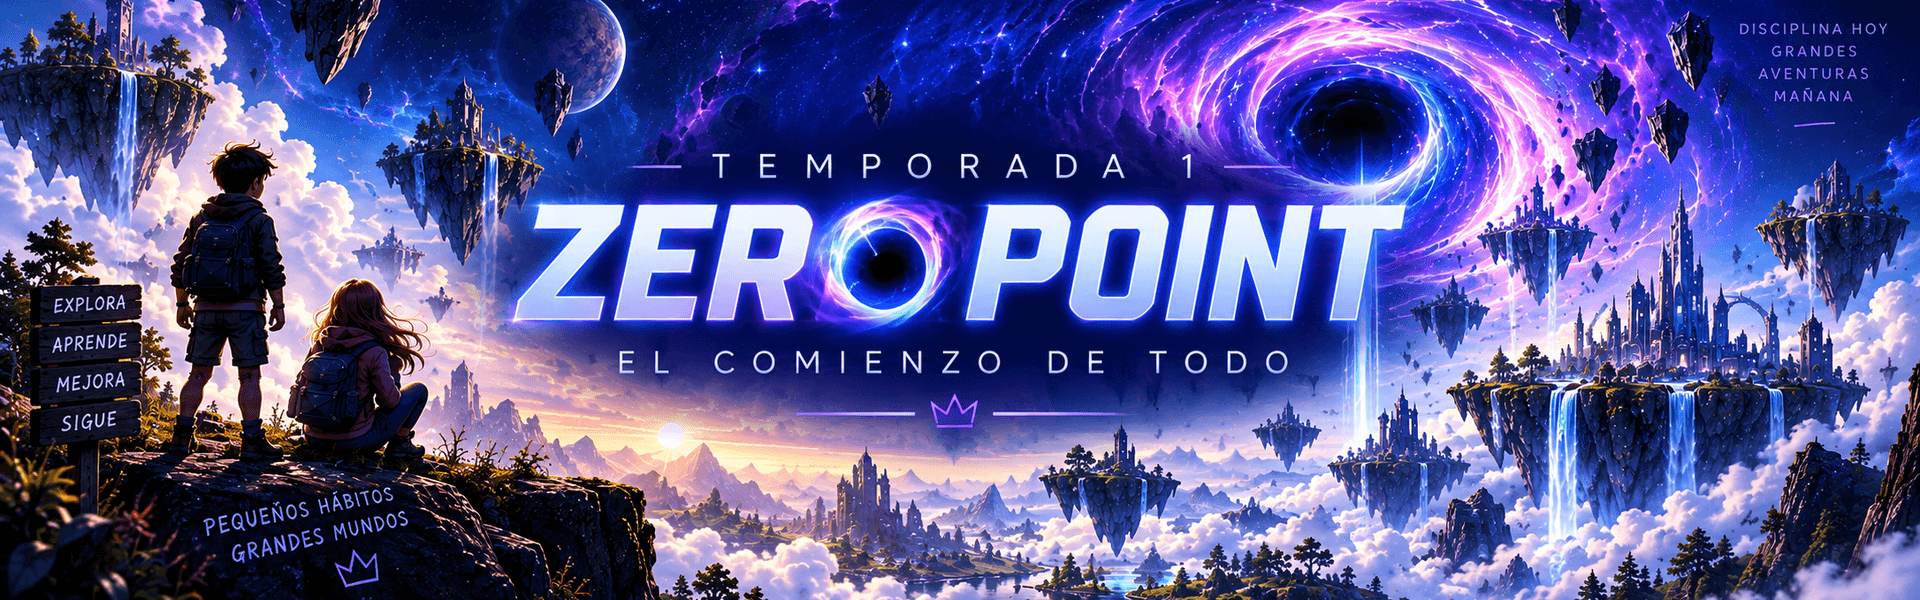
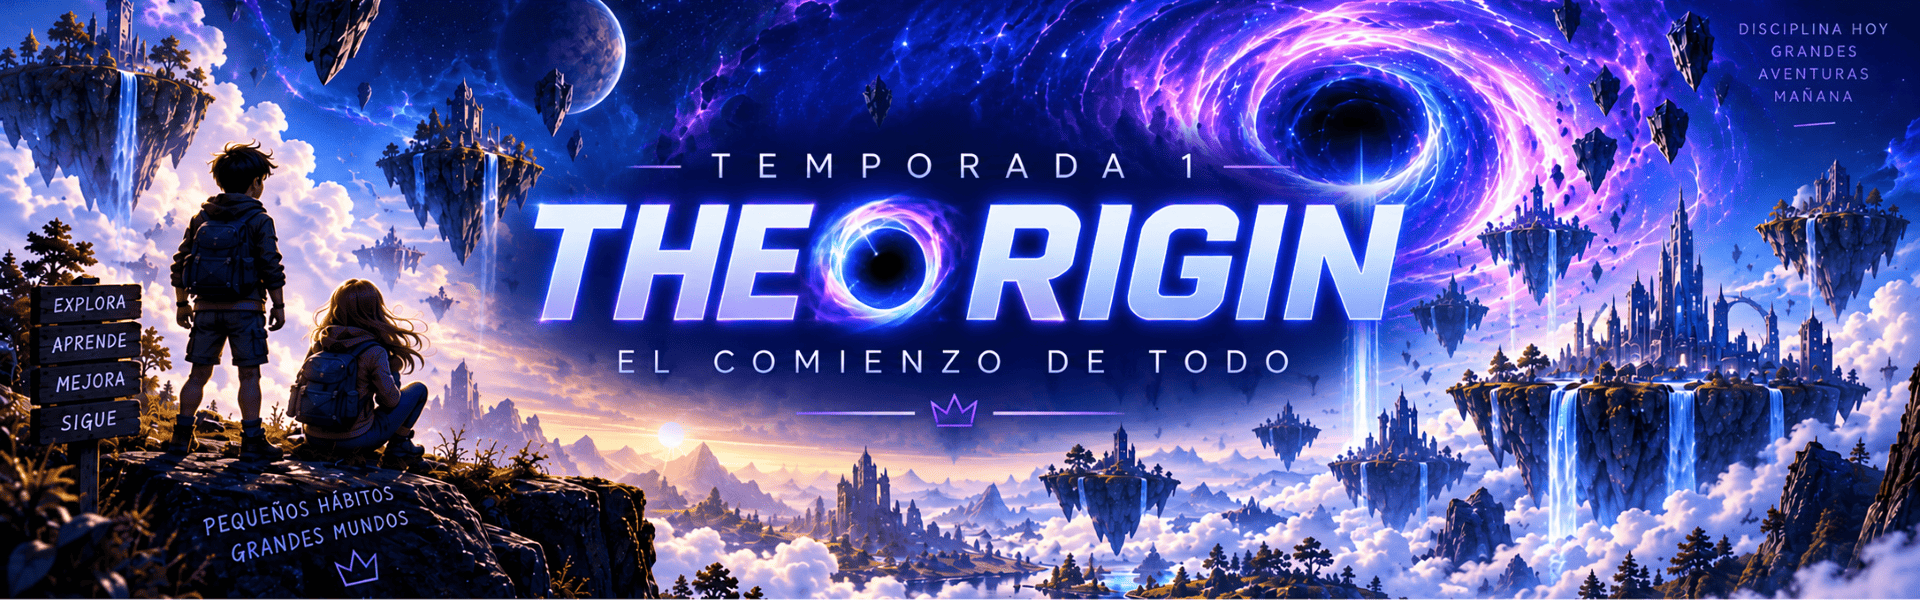
feat(seasons): añadir gráficos y presentar THE ORIGIN como temporada 1
feat(seasons): añadir gráficos y presentar THE ORIGIN como temporada 1

Incorporar recursos gráficos organizados por temporada.

Renombrar la temporada 1 de ZERO POINT a THE ORIGIN en temas, paneles y documentación.

Regenerar las plantillas de aprovisionamiento con los textos actualizados.

Renovar el README con presentación, instalación, uso diario y personalización.

Mantener el número y la carpeta de la temporada 1, las reglas y los identificadores de jugadores.

diff --git a/README.md b/README.md
@@ -1,42 +1,206 @@
-# Level Up Family
+# 🎮 Level Up Family
 
-Juego familiar de misiones domésticas para Home Assistant. Cada jugador completa misiones, gana XP, sube de nivel y sigue su progreso en temporadas de 28 días.
+**Las rutinas de casa se convierten en misiones. El progreso, en una aventura compartida.**
 
-Esta versión reúne el motor SQLite, los paquetes de Home Assistant, los paneles del juego y los recursos gráficos de la temporada 1. Incluye dos jugadores como ejemplo y un generador para configurar uno, dos o más hijos con nombres propios e identificadores estables `player1`, `player2`, `player3`…
+Level Up Family es un juego de tareas domésticas para **Home Assistant**. Cada hijo tiene su panel, completa misiones, gana experiencia y sigue su evolución durante temporadas de **28 días**. Los padres acompañan el progreso, organizan las tareas y eligen una recompensa semanal para cada jugador.
 
-## Qué incluye
+Puedes empezar con un hijo o con varios. Los nombres, las tareas y los premios se adaptan a tu familia.
 
-- Panel de `player1` y panel de `player2`, cada uno con una única pestaña del juego.
-- Configuración familiar central para añadir, renombrar o retirar hijos sin borrar su histórico.
-- Panel de padres con Control, Histórico, Tareas y premios y Familia.
-- Pestaña de padres **Tareas y premios** para editar las 20 tareas actuales: nombre, XP, jugador y calendario.
-- Un premio semanal distinto para cada jugador, visible en su propio panel con el estilo de temporada.
-- Misiones, XP, bonus, rachas, niveles, penalizaciones y cierres diarios/semanales.
-- Temporada de 28 días, con fecha de inicio configurable y estados pendiente, activa y finalizada.
-- Histórico en SQLite y utilidad de limpieza con copia de seguridad.
-- Pruebas aisladas y validaciones de YAML, plantillas y referencias.
+![Banner de la temporada 1 de Level Up Family](config/www/level_up_family/season_01/banner.png)
+
+## Explora el proyecto
+
+- [Qué puedes hacer](#-qué-puedes-hacer)
+- [Cómo funciona una semana](#-cómo-funciona-una-semana)
+- [Instalación](#-instalación)
+- [Configurar tu familia](#-configurar-tu-familia)
+- [Temporadas y gráficos](#-temporadas-y-gráficos)
+- [Datos y actualizaciones](#-datos-y-actualizaciones)
+- [Desarrollo y contribuciones](#-desarrollo-y-contribuciones)
+- [Guías y preguntas frecuentes](#-guías-y-preguntas-frecuentes)
+
+## ✨ Qué puedes hacer
+
+### Un panel para cada jugador
+
+Cada hijo dispone de una vista del juego con:
+
+- Cabecera y ambientación de la temporada activa.
+- Nombre y progreso hacia su objetivo semanal.
+- XP de la semana, racha diaria y multas.
+- Misiones del día y sus puntos de experiencia.
+- Nivel, racha semanal y estado del bonus.
+- Su recompensa semanal, con una imagen propia de la temporada.
+
+Las tareas conservan un formato sencillo: nombre, puntos y una marca para indicar si están completadas. Las correcciones de otros días se realizan desde el panel de padres.
+
+### Un panel para los padres
+
+| Pestaña | Para qué sirve |
+| --- | --- |
+| **Control** | Consultar el progreso, corregir misiones de la semana activa, aplicar multas y anularlas por su identificador. |
+| **Histórico** | Consultar semanas cerradas y resúmenes anuales almacenados en SQLite. |
+| **Tareas y premios** | Editar tareas, dificultad, XP, destinatario, días, frecuencia y premio de cada jugador. |
+| **Familia** | Cambiar nombres, preparar altas y retirar hijos conservando su progreso y sus registros. |
+
+La gestión de familia comprueba en el servidor que quien realiza los cambios sea administrador. Los demás scripts y helpers siguen sujetos a los permisos de Home Assistant; no hay un sistema independiente de permisos por hijo.
+
+## 🗓 Cómo funciona una semana
+
+1. **Los padres organizan las misiones.** Cada tarea tiene nombre, jugador, XP y días de aplicación. También puede realizarse una sola vez entre varios días elegidos.
+2. **Cada hijo completa sus misiones.** El panel refleja el progreso y los XP de la semana.
+3. **Se sigue un objetivo semanal.** El valor inicial es el 75 % de las misiones previstas y puede ajustarse. La recompensa es una descripción del premio que han elegido los padres.
+4. **Los cierres consolidan el progreso.** Los cierres diarios y semanales calculan resultados, actualizan rachas y guardan los registros correspondientes. Los XP de la semana y el total histórico tienen funciones distintas: el total se consolida con el cierre semanal.
+
+Los días perfectos y las semanas consecutivas que cumplen el objetivo participan en los bonus. Las multas descuentan XP de la semana y quedan registradas; no eliminan XP del total histórico. Anular una multa conserva su registro y la marca como cancelada.
+
+### Editar tareas sin perder el progreso
+
+- El nombre de una tarea puede cambiar aunque ya tenga progreso.
+- Los XP, días, frecuencia o jugador solo pueden cambiar si esa tarea todavía no tiene progreso en la semana activa.
+- Sin días seleccionados, la tarea queda desactivada.
+- Los formularios antiguos se rechazan si otra sesión ha guardado cambios.
+- Las tareas de una vez por semana cuentan una sola vez y no forman parte del bonus de día perfecto.
+
+Los cambios de reglas permitidos se aplican a la semana actual. Consulta los detalles en [Tareas y premios](docs/TASKS_AND_REWARDS.md).
+
+## 🚀 Instalación
+
+Level Up Family combina **paquetes YAML, scripts Python, una integración local y tarjetas de interfaz**. Se instala copiando y combinando su configuración con la de Home Assistant.
+
+### Necesitas
+
+- Home Assistant con acceso a `/config` y soporte de paquetes YAML.
+- Python 3 con SQLite en el entorno donde se ejecuta Home Assistant.
+- [button-card](https://github.com/custom-cards/button-card) y [card-mod](https://github.com/thomasloven/lovelace-card-mod), instalados y registrados.
+- La integración local de `config/custom_components/level_up_family`.
+- El recurso `/local/level_up_family/level-up-family-cards.js?v=2.6.0`, registrado como **módulo JavaScript**.
+- Una copia de seguridad antes de modificar una instalación existente.
+
+La integración local incluida no se instala desde HACS. HACS puede utilizarse para las tarjetas externas indicadas arriba.
+
+### Primeros pasos
+
+1. **Prepara tu familia.** Puedes utilizar el ejemplo de dos jugadores o seguir el [generador familiar](docs/FAMILY_CONFIGURATION.md) para obtener una configuración inicial con uno o más hijos.
+2. **Copia los archivos.** Copia el contenido de `config/` a `/config/`, conservando su estructura. Combina las inclusiones de `examples/configuration.yaml` o del fragmento generado con tu configuración existente.
+3. **Inicializa una base nueva**, únicamente para una instalación nueva:
+
+   ```sh
+   python3 /config/level_up_family/python/luf_db.py init
+   ```
+
+4. **Registra las tarjetas**, comprueba la configuración con Home Assistant y reinicia si es válida.
+5. **Elige la temporada y su fecha de inicio** mediante `input_number.luf_season_number` e `input_datetime.luf_season_start`.
+6. **Configura tareas y premios desde padres.** Comprueba que `input_boolean.luf_maintenance` esté apagado cuando el juego esté listo para usarse.
+
+La guía de [Instalación](docs/INSTALLATION.md) explica las inclusiones, los requisitos y las comprobaciones. Conserva tu configuración de dispositivos y las otras pestañas de tus paneles al combinar los archivos.
+
+## 👨👩👧👦 Configurar tu familia
+
+El repositorio utiliza nombres genéricos como `player1` y `player2`. Son identificadores estables; el nombre que aparece en el juego se configura por separado.
+
+Una vez instalada la función, abre **Familia** en el panel de padres:
+
+| Acción | Qué ocurre |
+| --- | --- |
+| **Guardar nombre** | Cambia el nombre visible sin crear otro jugador ni reiniciar sus puntos. |
+| **Retirar** | Deja de incluir al hijo en los controles activos y conserva sus helpers, tareas e histórico. Requiere confirmar la retirada. |
+| **Preparar alta** | Muestra una propuesta para crear un nuevo jugador. |
+| **Aplicar alta y reiniciar HA** | Crea su panel y diez tareas desactivadas, comprueba la configuración y carga las nuevas entidades mediante un reinicio. |
+
+Las altas preparan copias de seguridad y recuperan los valores anteriores de los helpers antes de reanudar el juego. Después puedes activar los días de las nuevas tareas y ajustar sus XP.
+
+Debe quedar al menos un hijo activo. Los identificadores retirados no se reutilizan. La reactivación desde el panel todavía está pendiente; consulta [Configurar la familia](docs/FAMILY_CONFIGURATION.md) antes de realizar cambios manuales sobre una instalación con actividad.
+
+## 🌌 Temporadas y gráficos
+
+### Temporada 1 · THE ORIGIN
+
+La primera temporada se presenta como **THE ORIGIN** y utiliza la carpeta `season_01`. El número y la carpeta permanecen estables para que el cambio de título no cree una temporada distinta ni cambie sus fechas.
+
+Cada temporada dura 28 días naturales: si empieza en una fecha determinada, su último día es esa fecha más 27 días. El panel indica si está pendiente de inicio, activa o finalizada.
+
+### Dónde van las imágenes
+
+Los recursos se organizan por temporada:
+
+```text
+config/www/level_up_family/
+├── level-up-family-cards.js
+├── season_01/
+│   ├── banner.png
+│   ├── fondo_vertical.png
+│   ├── recompensa.png
+│   ├── icono_xp.png
+│   ├── icono_nivel.png
+│   ├── icono_mision.png
+│   ├── icono_penalizacion.png
+│   ├── icono_racha.png
+│   ├── icono_semana.png
+│   ├── icono_temporada.png
+│   └── icono_bonus.png
+└── season_XX/
+    └── ...
+```
+
+`season_XX` representa la estructura para otras temporadas, no una carpeta que debas crear literalmente. El catálogo de nombres previsto no implica que todas las temporadas tengan ya sus gráficos o colores propios.
+
+| Recurso | Uso |
+| --- | --- |
+| `banner.png` | Cabecera de la temporada y vista previa de este README para la temporada 1. |
+| `fondo_vertical.png` | Fondo del panel infantil. |
+| `icono_*.png` | Iconos de métricas y secciones del juego. |
+| `recompensa.png` | Imagen del premio semanal, presentada a **80 × 80 px** conservando sus proporciones. |
+| `emblema.png`, `estela.png`, `elementos_flotantes.png` | Recursos complementarios del conjunto gráfico, cuando se incluyan. |
+
+En Home Assistant, `www/level_up_family/season_01` se publica como `/local/level_up_family/season_01`. La tarjeta de recompensa busca la imagen de la temporada activa; si no puede cargarla, utiliza un icono de regalo.
+
+Para añadir una temporada, conserva los nombres esperados de los archivos y revisa su definición en `lf_themes.yaml` y los textos de los paneles. Después regenera las plantillas de aprovisionamiento:
+
+```sh
+python tools/build_family_templates.py
+```
+
+Subir gráficos o cambiar el título de una temporada no cambia la temporada activa de una instalación de HA, no modifica su fecha de inicio y no reinicia contadores. La transición a otra temporada se configura por separado; no es automática.
+
+## 💾 Datos y actualizaciones
+
+El progreso utiliza dos tipos de almacenamiento:
+
+| Dato | Dónde se conserva |
+| --- | --- |
+| Marcas de misiones, contadores y ajustes editados | Helpers de Home Assistant. |
+| Jugadores, cierres diarios y semanales, resúmenes anuales y multas | SQLite: `/config/level_up_family/data/luf.db`. |
+| Identidades y vinculaciones de la familia | `/config/level_up_family/family.json`. |
+| Definiciones iniciales de tareas | `/config/level_up_family/task_defaults.json`. |
+
+Incluye estos elementos en las copias de seguridad. Actualizar imágenes o código no es un motivo para borrar los datos del juego.
+
+Las instalaciones anteriores con otros nombres de entidades o de base de datos necesitan una migración coordinada. La nomenclatura actual usa `luf_`; consulta [Nomenclatura del repositorio](docs/REPOSITORY_NAMESPACE.md) antes de copiar archivos sobre una instalación con progreso.
+
+El repositorio distribuye una configuración genérica. Mantén fuera de publicaciones las bases de datos, copias, credenciales, nombres reales y capturas con información personal. Los recursos de `www` son accesibles desde el frontal de HA: utiliza esa carpeta para imágenes del juego.
+
+## 🛠 Desarrollo y contribuciones
+
+### Estructura del proyecto
 
 ```text
 config/
-  custom_components/level_up_family/ Gestión de familia y plantillas de aprovisionamiento
-  level_up_family/family.json   Registro familiar de ejecución (versión 2)
-  level_up_family/python/       Motor y utilidades de datos
-  packages/level_up_family/     Helpers, reglas y automatizaciones
-  panel/level_up_family/        player1.yaml, player2.yaml y parents.yaml
-  www/level_up_family/season_01/ Recursos gráficos
-examples/configuration.yaml    Inclusiones mínimas para Home Assistant
-docs/                          Instalación, funcionamiento y próximos cambios
-tests/                         Pruebas sin acceso a datos reales
-tools/                         Validadores de configuración y paneles
+├── custom_components/level_up_family/  Gestión de familia y aprovisionamiento
+├── level_up_family/
+│   ├── python/                        Motor SQLite y utilidades
+│   ├── family.json                    Registro familiar de ejemplo
+│   └── task_defaults.json             Tareas iniciales
+├── packages/level_up_family/          Reglas, helpers, sensores y automatizaciones
+├── panel/level_up_family/             Paneles de jugadores y padres
+└── www/level_up_family/               Tarjetas y gráficos de temporadas
+docs/                                 Guías y decisiones de funcionamiento
+examples/                             Configuración para adaptar a tu instalación
+tests/                                Pruebas con datos aislados
+tools/                                Generadores y validadores
 ```
 
-Consulta la [instalación](docs/INSTALLATION.md), [Tareas y premios](docs/TASKS_AND_REWARDS.md), la [arquitectura](docs/ARCHITECTURE.md) y la [hoja de ruta](docs/ROADMAP.md).
-
-Los [cambios acumulados y su validación](docs/CHANGES.md) explican el alcance de esta actualización y sus límites.
-
-En **Familia**, dentro del panel de padres, puedes añadir hijos, retirarlos conservando su progreso e histórico y cambiar sus nombres. Las altas requieren un reinicio comprobado de HA; nombres y retiradas se aplican al guardar. Consulta [Configurar la familia](docs/FAMILY_CONFIGURATION.md) para instalar esta función o preparar una familia inicial con el generador.
-
-## Desarrollo
+### Comprobar los cambios
 
 Con Python 3.12 o posterior y Node.js disponibles:
 
@@ -45,16 +209,35 @@ python -m pip install -r requirements-dev.txt
 python -m unittest discover -s tests -v
 python tools/validate_config.py config
 python tools/validate_panels_js.py config/panel/level_up_family
+node --check config/www/level_up_family/level-up-family-cards.js
 ```
 
-Los tests crean bases de datos temporales. No leen ni modifican Home Assistant.
+Las pruebas crean datos temporales y no necesitan conectarse a tu HA. Comprueban el motor, las reglas, la conservación del histórico y la recuperación, entre otros casos. Los validadores estáticos no sustituyen la comprobación de configuración ni la revisión visual en la versión de HA donde vayas a instalar.
 
-## Alcance de esta copia
+Si cambias las fuentes de los paneles o del aprovisionamiento, regenera `templates.json` antes de ejecutar las pruebas. Si añades gráficos, comprueba sus nombres, su apertura y sus rutas además de la sintaxis del código.
 
-El repositorio contiene una distribución anonimizada para una instalación nueva. Los identificadores internos usan el prefijo `luf_`, correspondiente a Level Up Family. Cambiar los nombres visibles no exige renombrar esos identificadores.
+Las contribuciones se revisan mediante PR. Describe qué cambia, qué archivos de temporada incluye, cómo lo has comprobado y si necesita migración o despliegue. Mantén separados los cambios de contenido y cualquier operación que reinicie progreso.
 
-La [nomenclatura del repositorio](docs/REPOSITORY_NAMESPACE.md) describe archivos, entidades y rutas. Esta revisión cambia identificadores de ejecución y requiere una migración para instalaciones anteriores; no se ha aplicado a la instalación de HA en uso.
+## 📚 Guías y preguntas frecuentes
 
-No incluye bases de datos, actividad de jugadores, credenciales, copias de seguridad, dispositivos personales ni otras pestañas de los paneles de la casa. La configuración de ejemplo debe combinarse con la configuración propia de Home Assistant.
+| Quiero… | Guía |
+| --- | --- |
+| Instalar el juego | [Instalación](docs/INSTALLATION.md) |
+| Adaptarlo a mis hijos | [Configurar la familia](docs/FAMILY_CONFIGURATION.md) |
+| Cambiar tareas y recompensas | [Tareas y premios](docs/TASKS_AND_REWARDS.md) |
+| Entender dónde se guarda cada dato | [Arquitectura](docs/ARCHITECTURE.md) |
+| Preparar una actualización desde otra nomenclatura | [Nomenclatura](docs/REPOSITORY_NAMESPACE.md) |
+| Consultar el alcance de las funcionalidades incorporadas | [Cambios](docs/CHANGES.md) |
+| Ver qué falta por implementar | [Hoja de ruta](docs/ROADMAP.md) |
 
-La instalación que originó esta copia utiliza otros identificadores de jugador. Sustituirla directamente por estos archivos crearía entidades nuevas: una migración de esa instalación requiere mapear por separado entidades, referencias y claves SQLite. Publicar este repositorio no cambia la instalación en uso.
+**¿Sirve para un solo hijo?** Sí. Puedes generar una configuración inicial con un jugador y añadir otros más adelante desde Familia.
+
+**¿Tengo que editar archivos para cambiar una tarea o un premio?** Una vez instalado, esos cambios habituales se hacen desde el panel de padres, respetando las reglas de protección del progreso.
+
+**¿El premio se entrega automáticamente?** El juego muestra el premio y si se alcanza el objetivo. Su entrega la organizan los padres; el texto permanece configurado hasta que lo cambien.
+
+**¿Puedo añadir tareas sin límite desde el panel?** Puedes editar los espacios existentes; cada alta de un hijo crea diez nuevos. Crear espacios adicionales para un jugador existente sigue pendiente.
+
+**¿Añadir gráficos pone en marcha una temporada nueva?** No. La carga de recursos y la configuración de la temporada son pasos distintos.
+
+**¿Qué hago si una alta queda pendiente?** Conserva la copia de seguridad y revisa el error de Familia. Si la recuperación no termina, el juego mantiene el modo de mantenimiento. Sigue la guía de recuperación antes de reanudarlo.

diff --git a/config/www/level_up_family/season_01/README.md b/config/www/level_up_family/season_01/README.md
@@ -1,7 +1,7 @@
-# Temporada 1: Zero Point
+# Temporada 1: The Origin
 
 Recursos utilizados por el tema y los paneles. Home Assistant publica esta carpeta en `/local/level_up_family/season_01`.
 
-`banner.png` y `fondo_vertical.png` dan forma al panel. Los iconos representan XP, nivel, misiones, temporada, semana, bonus, rachas y penalizaciones. `emblema.png`, `estela.png` y `elementos_flotantes.png` completan el conjunto gráfico de la temporada.
+`banner.png` y `fondo_vertical.png` dan forma al panel. Los iconos representan XP, nivel, misiones, temporada, semana, bonus, rachas y penalizaciones. `emblema.png` completa el conjunto gráfico de la temporada.
 
 Para una temporada nueva, conservar los nombres esperados por las plantillas dentro de una carpeta `season_XX` y añadir su definición de tema mediante un PR. Copiar imágenes no cambia la temporada activa ni reinicia contadores.
